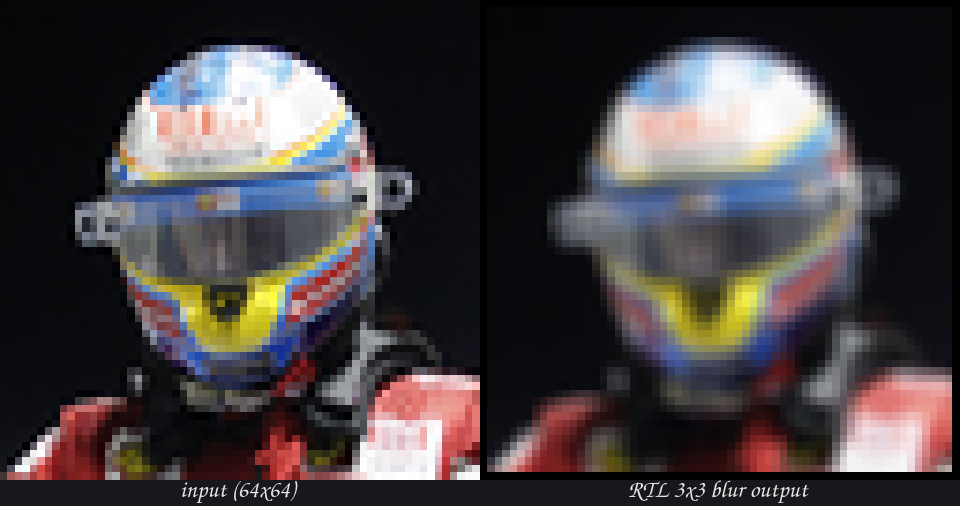
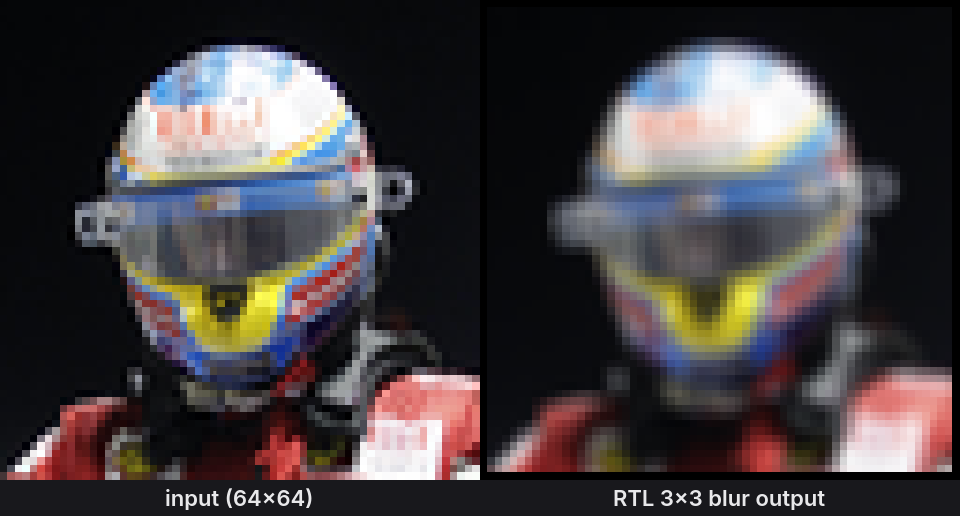
docs: render README comparison images with Inter; Aston brighten, Ferrari blur

diff --git a/README.md b/README.md
@@ -65,9 +65,10 @@ branches, and the interior 3×3 box blur — all verified pixel-for-pixel (see
 </p>
 
 <p align="center"><em>Phase 1 <code>brighten</code> kernel running on the RTL
-datapath (4096 threads = 512 waves, 0 mismatches vs the golden model).
-The scalar <code>+0x20</code> add overflows blue into green — the speckles
-that Phase 2's per-channel saturating math fixes.</em></p>
+datapath (input: <code>alonso_aston</code>, 64×64 → 4096 threads = 512 waves,
+0 mismatches vs the golden model). The scalar <code>+0x20</code> add overflows
+blue into green — the speckles that Phase 2's per-channel saturating math
+fixes.</em></p>
 
 Phase 2 adds the full ALU (`MUL/DIV/AND/OR/XOR/SLL/SRL`) and a fully-unrolled
 interior 3×3 box blur, matched pixel-for-pixel against an independent Python
@@ -78,8 +79,9 @@ reference:
 </p>
 
 <p align="center"><em>Phase 2 interior <code>blur</code> on the RTL datapath
-(3844 threads, 125 instructions, 0 mismatches). The 1-pixel border is
-untouched — Phase 3 clamps it.</em></p>
+(input: <code>alonso_ferrari</code>, 3844 threads, 125 instructions,
+0 mismatches). The 1-pixel border is untouched — a later phase clamps
+it.</em></p>
 
 
 
